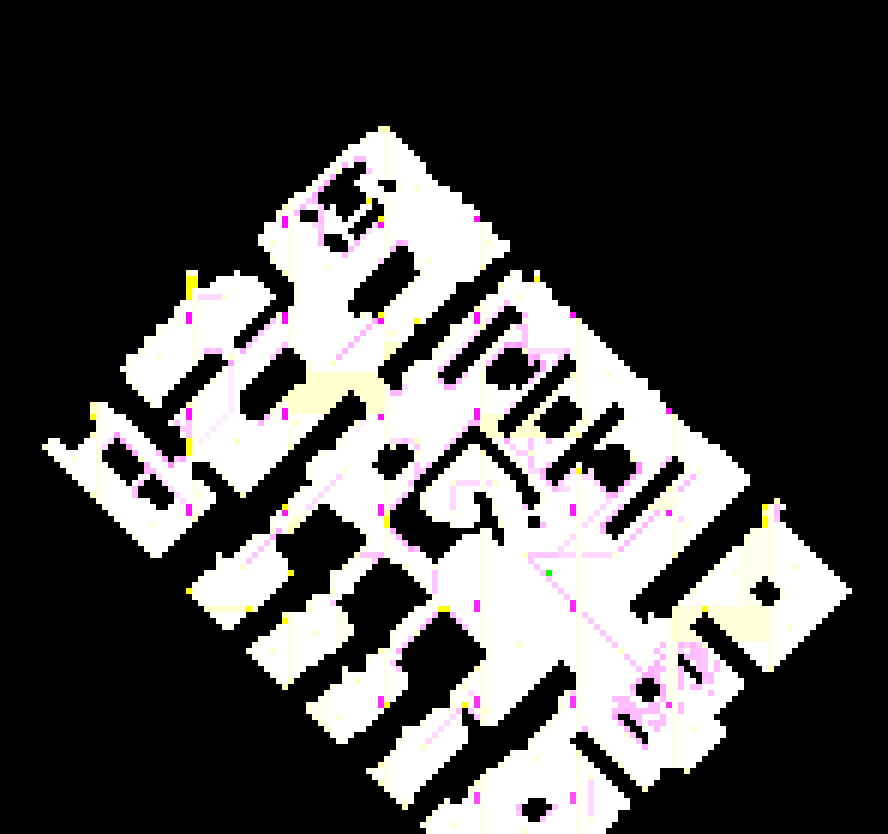
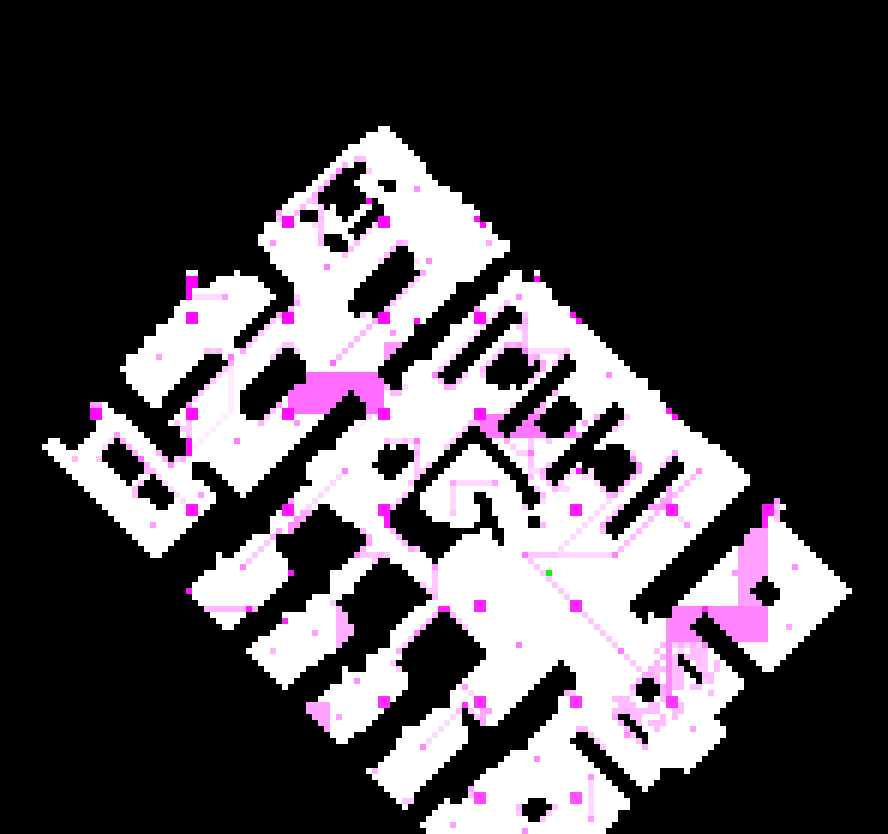
Coloured walls that change .dat file in pink, used logarithmic scale, the pinker the more change - interesting pattern of squares

diff --git a/src/map/GameMap.java b/src/map/GameMap.java
@@ -1853,17 +1853,17 @@ public class GameMap {
                 used.put(rec.toString(), null);
             }
 
-            for (SearchState current : wallsThatChangeDati2.keySet()) {
-                int row = getRow(current.getId());
-                int col = getCol(current.getId());
-
-                ChangeRecord rec;
-                color = new Color(255, 255, 255 - (int) (255 * Math.log(wallsThatChangeDati2.get(current)) / Math.log(maxDati2)));
-                rec = new ChangeRecord(row, col, color, 1);
-                if (used.containsKey(rec.toString())) continue;
-                currentMask.add(rec);
-                used.put(rec.toString(), null);
-            }
+//            for (SearchState current : wallsThatChangeDati2.keySet()) {
+//                int row = getRow(current.getId());
+//                int col = getCol(current.getId());
+//
+//                ChangeRecord rec;
+//                color = new Color(255, 255 - (int) (255 * Math.log(wallsThatChangeDati2.get(current)) / Math.log(maxDati2)), 255);
+//                rec = new ChangeRecord(row, col, color, 1);
+//                if (used.containsKey(rec.toString())) continue;
+//                currentMask.add(rec);
+//                used.put(rec.toString(), null);
+//            }
 
             // colour start in green
             color = Color.GREEN;
